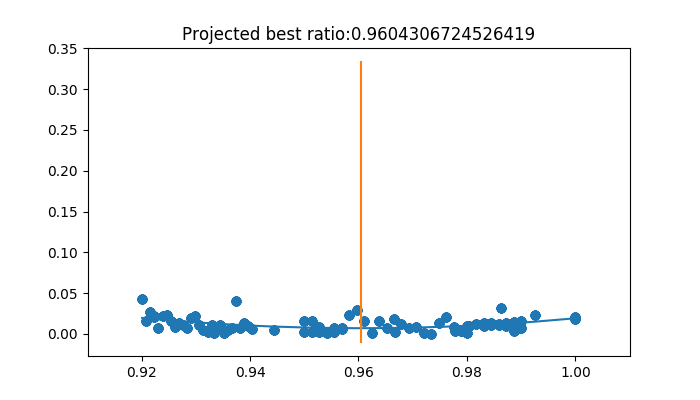
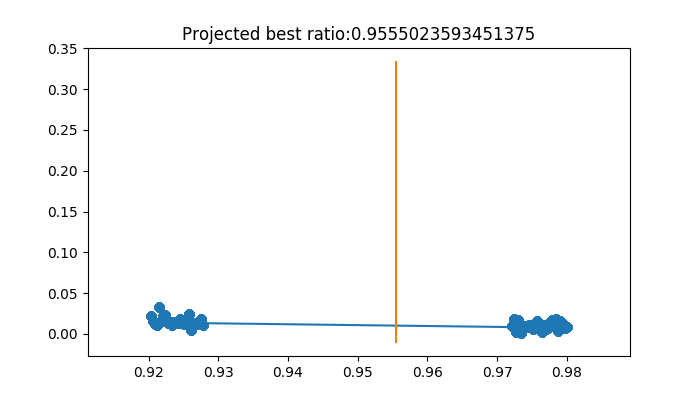
running on gcloud

diff --git a/sim_linspace.py b/sim_linspace.py
@@ -12,12 +12,12 @@ import logging
 
 logging.basicConfig(filename='./sim.log', level=logging.INFO)
 
-num_points = 20
-lims = [0.94, 0.96]
+num_points = 200
+lims = [0.92, 0.98]
 
 sim = Sim(
-    flips = 3000,
-    timestep = 1/2000.,
+    flips = 10000,
+    timestep = 1/1000.,
     sim_type = p.DIRECT,  # p.GUI, p.DIRECT, p.SHARED_MEMORY
 )
 

diff --git a/mod_results.py b/mod_results.py
@@ -53,5 +53,5 @@ print(f'projected best: at ratio: {best.x[0]} with loss: {best.fun}')
 
 plt.plot([best.x, best.x], [-0.01, 1/3])
 plt.title(label=f"Projected best ratio:{best.x[0]}")
-plt.show()
+#plt.show()
 fig.savefig('results.png')

diff --git a/show_results.py b/show_results.py
@@ -55,5 +55,5 @@ print(f'projected best: at ratio: {best.x[0]} with loss: {best.fun}')
 
 plt.plot([best.x, best.x], [-0.01, 1/3])
 plt.title(label=f"Projected best ratio:{best.x[0]}")
-plt.show()
+#plt.show()
 fig.savefig('results.png')
